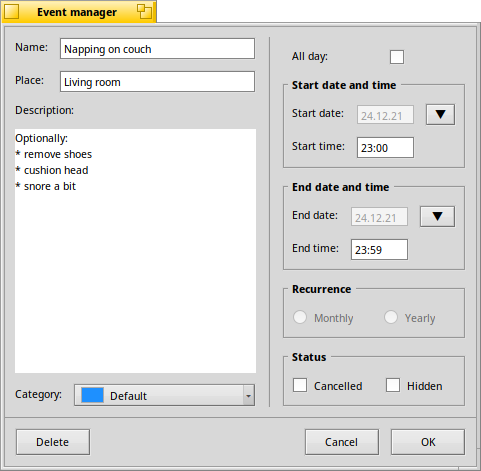
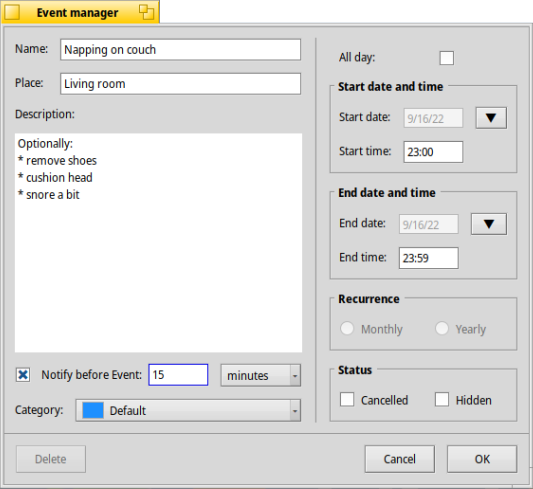
Documentation updated for Daemon (#132)
* Documentation updated for Daemon

* Documentation updated

Changed region(s): [[0.0, 0.0, 1.0, 1.0], [0.7796, 0.6539, 0.9044, 0.6837]]

diff --git a/documentation/Documentation.html b/documentation/Documentation.html
@@ -130,7 +130,7 @@ ul {
 <img src="./images/calendar_icon_64.png" alt="Calendar icon" /></a>
 <p><span style="font-size: 1.5em; font-weight:bold">Calendar's User Documentation</span></p>
 <hr />
-<p id="index"><a href="#eventmanager">Event manager</a> — <a href="#categorymanager">Category manager</a> — <a href="#settings">Settings</a> — <a href="#help">Help</a></p>
+<p id="index"><a href="#eventmanager">Event manager</a> — <a href="#categorymanager">Category manager</a> — <a href="#settings">Settings</a> — <a href="#reminders">Reminders</a> — <a href="#help">Help</a></p>
 </div>
 <hr />
 <p><br /></p>
@@ -165,6 +165,7 @@ Hidden and deleted events can remain visible by activating <span class="menu">Vi
 <li>Define as an <span class="menu">All day</span> event or set <span class="menu">Start/End date and time</span> (click the "▼" button for a pop-up calendar for the date, the time setting is HH:mm (24-hour format)).</li>
 <li>Optionally choose a monthly or yearly <span class="menu">Recurrence</span> (not implemented yet).</li>
 <li>Set the <span class="menu">Status</span> to <span class="menu">Cancelled</span> or <span class="menu">Hidden</span> (also done with the context menu of the main window).</li>
+<li>Optionally give it a Reminder.</li>
 </ul></p>
 
 <h2>
@@ -201,6 +202,14 @@ cannot be deleted but can be modified. Click on <span class="button">New...</spa
 <li>Have the <span class="menu">First day of the week</span> either to whatever the system locale says, or choose a specific day.</li>
 <li>Choose to <span class="menu">Show week numbers in calendar</span>.</li>
 </ul></p>
+
+<h2>
+<a href="#"><img src="images/up.png" style="border:none;float:right" alt="index" /></a>
+<a id="reminders" name="reminders">Reminders</a></h2>
+
+<p>You can set reminder for any event in the Calendar while creating the event (or while editing it afterwards). The reminder appears in the form of a system alert, which contains <span class="menu">Event Name</span>, <span class="menu">Event Place</span>, and the time remaining till the event. It takes help of a <span class="menu">Daemon</span>, or basically a background application, which enables it to deliver the reminders even if the Calendar application is not open.</p>
+
+<p><span class="menu">Calendar Daemon</span> was developed under Google Summer of Code 2022 by Harshit Sharma, see his <a href="https://www.haiku-os.org/blog/harshitsharma/2022-09-12_gsoc_2022_final_report_improving_the_calendar_application/">wrap up blog post</a> about it.</p>
 
 <h2>
 <a href="#"><img src="images/up.png" style="border:none;float:right" alt="index" /></a>
